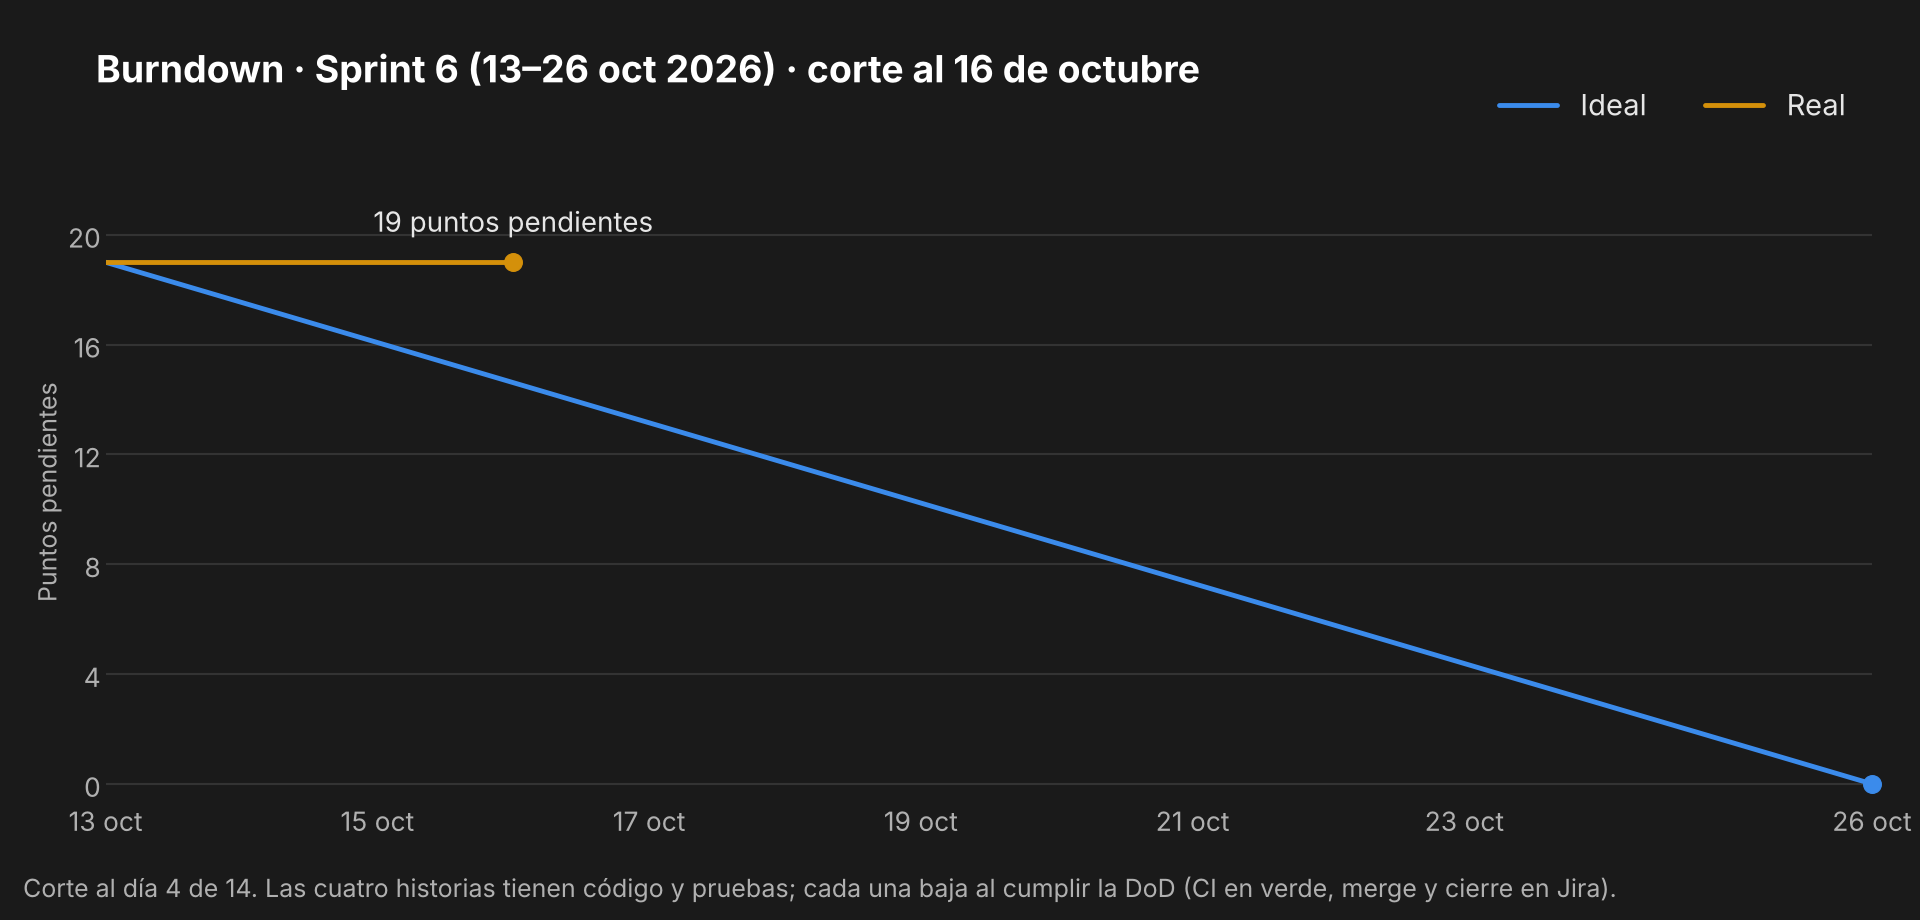
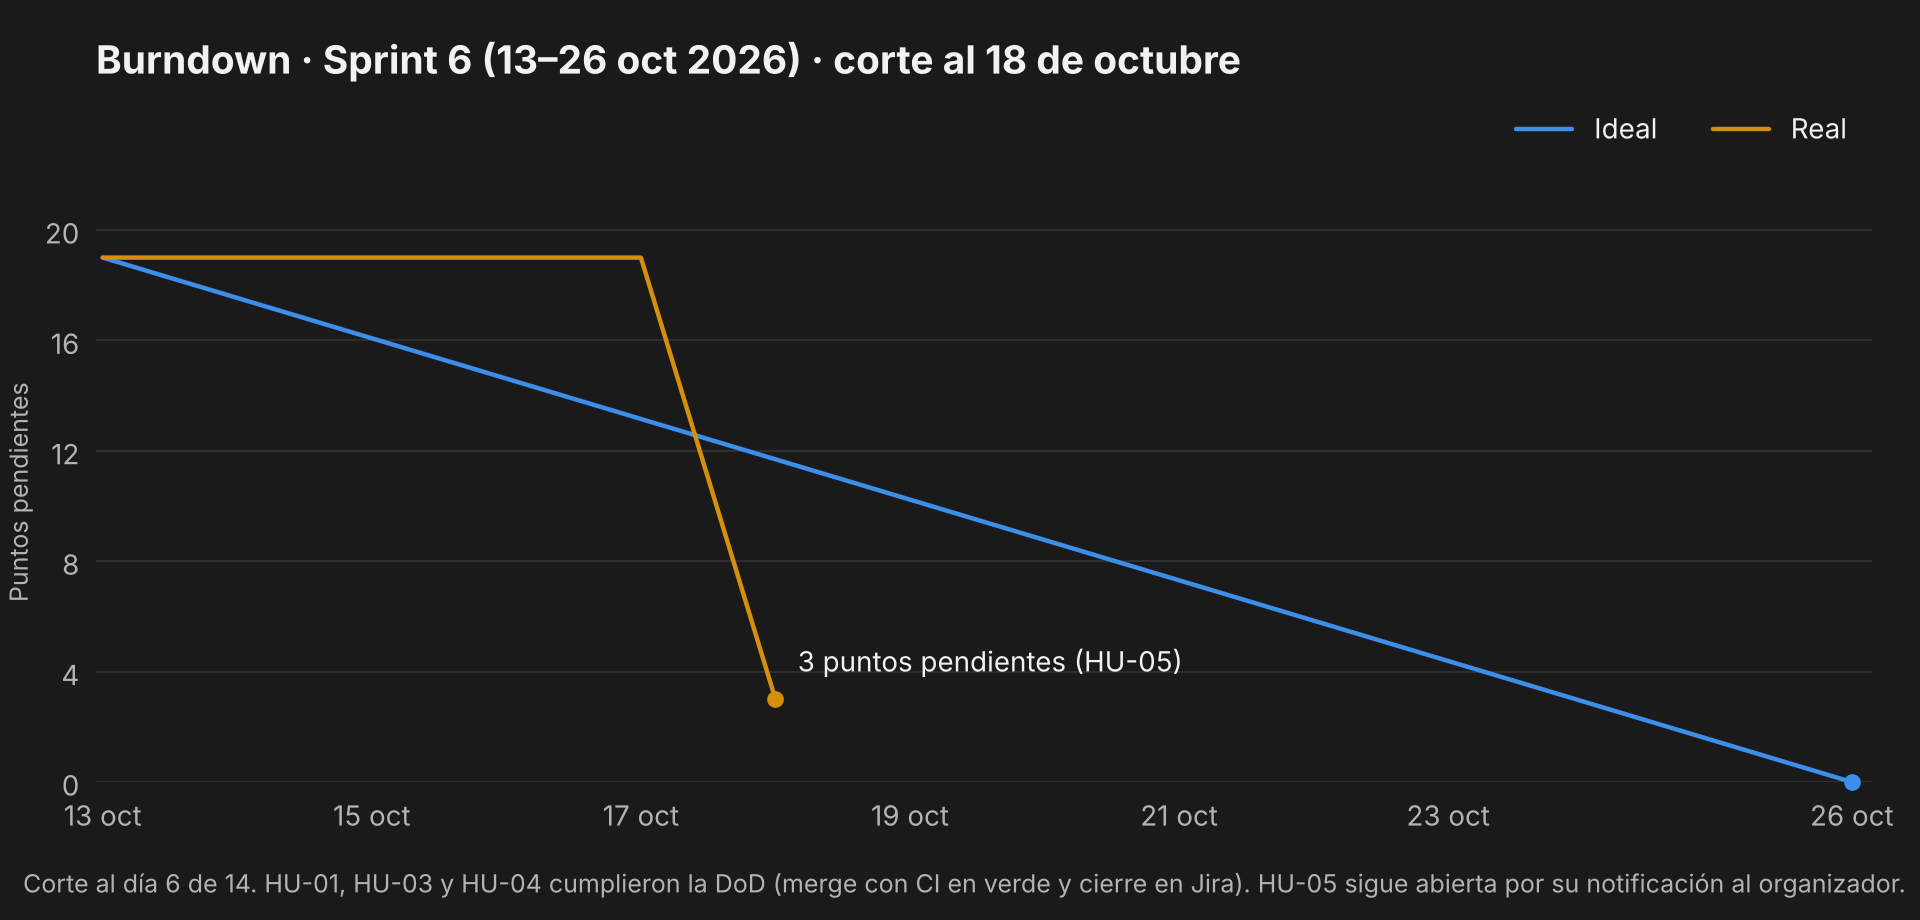
docs(scrum): estado del Sprint 6 al 18 de octubre y burndown (KAN-23)
KAN-7, KAN-9 y KAN-10 en Listo tras el merge del PR #3; HU-05 sigue
abierta por la notificación al organizador.

Claude-Session: https://claude.ai/code/session_01QMjFNznAKG8ee7HLnP4XEw

diff --git a/fase-2-desarrollo/docs/scrum/sprint-06.md b/fase-2-desarrollo/docs/scrum/sprint-06.md
@@ -1,7 +1,7 @@
 # Sprint 6 — Recorrido central: registro, publicación, mapa y postulación
 
 > 13 al 26 de octubre de 2026 · Fase 2 · **Sprint en curso**
-> Corte de este documento: 16 de octubre de 2026 (día 4 de 14).
+> Corte de este documento: 18 de octubre de 2026 (día 6 de 14).
 
 ---
 
@@ -19,12 +19,12 @@ organizador publica un partido al que le falta gente.
 
 ## 2. Sprint Backlog
 
-| Issue | Tipo | Título | Prioridad | Puntos | Estado al 16-oct |
+| Issue | Tipo | Título | Prioridad | Puntos | Estado al 18-oct |
 |---|---|---|---|---|---|
-| [KAN-7](https://lukasguerrerokancha.atlassian.net/browse/KAN-7) | Historia | HU-01 — Registro de agente libre | Must | 3 | Código y pruebas listos · falta merge |
-| [KAN-9](https://lukasguerrerokancha.atlassian.net/browse/KAN-9) | Historia | HU-03 — Publicar partido con cupos incompletos | Must | 5 | Código y pruebas listos · falta merge |
-| [KAN-10](https://lukasguerrerokancha.atlassian.net/browse/KAN-10) | Historia | HU-04 — Buscar partidos cercanos en el mapa | Must | 8 | Código y pruebas listos · falta merge |
-| [KAN-11](https://lukasguerrerokancha.atlassian.net/browse/KAN-11) | Historia | HU-05 — Postularme a un partido | Must | 3 | Código y pruebas listos · falta merge y notificación |
+| [KAN-7](https://lukasguerrerokancha.atlassian.net/browse/KAN-7) | Historia | HU-01 — Registro de agente libre | Must | 3 | Listo · PR #3 a `develop` con CI en verde |
+| [KAN-9](https://lukasguerrerokancha.atlassian.net/browse/KAN-9) | Historia | HU-03 — Publicar partido con cupos incompletos | Must | 5 | Listo · PR #3 a `develop` con CI en verde |
+| [KAN-10](https://lukasguerrerokancha.atlassian.net/browse/KAN-10) | Historia | HU-04 — Buscar partidos cercanos en el mapa | Must | 8 | Listo · PR #3 a `develop` con CI en verde |
+| [KAN-11](https://lukasguerrerokancha.atlassian.net/browse/KAN-11) | Historia | HU-05 — Postularme a un partido | Must | 3 | En curso · código y pruebas en `develop`; falta la notificación al organizador |
 | [KAN-23](https://lukasguerrerokancha.atlassian.net/browse/KAN-23) | Tarea | Documentación de la Fase 2 | — | — | En curso |
 
 Desglose técnico:
@@ -38,15 +38,13 @@ Desglose técnico:
 
 ## 3. Scrumboard
 
-Estado del tablero al 16 de octubre:
+Estado del tablero al 18 de octubre:
 
 | Por hacer | En curso | Listo |
 |---|---|---|
-| — | KAN-7 · HU-01 | — |
-| | KAN-9 · HU-03 | |
-| | KAN-10 · HU-04 | |
-| | KAN-11 · HU-05 | |
-| | KAN-23 · Documentación Fase 2 | |
+| — | KAN-11 · HU-05 | KAN-7 · HU-01 |
+| | KAN-23 · Documentación Fase 2 | KAN-9 · HU-03 |
+| | | KAN-10 · HU-04 |
 
 Una historia pasa a *Listo* cuando cumple la Definición de Terminado (`DESARROLLO.md` §13): CI en
 verde en el Pull Request, merge a `develop` y evidencia en `docs/evidencias/`.
@@ -55,8 +53,9 @@ verde en el Pull Request, merge a `develop` y evidencia en `docs/evidencias/`.
 
 ![Burndown del Sprint 6](img/burndown-sprint-06.png)
 
-Al día 4 la línea real sigue en 19 puntos: el código de las cuatro historias existe y sus pruebas
-pasan, pero ninguna cumple todavía la DoD.
+Al día 6 la línea real bajó de 19 a 3 puntos: HU-01, HU-03 y HU-04 cumplieron la DoD con el merge
+del PR #3 a `develop` (CI en verde en sus tres jobs) y su cierre en Jira. Quedan los 3 puntos de HU-05,
+cuyo criterio de notificar al organizador depende de HU-10.
 
 ## 5. Daily Meeting
 
@@ -64,6 +63,7 @@ pasan, pero ninguna cumple todavía la DoD.
 |---|---|---|---|
 | 13–15 oct | Sin avance en el proyecto | — | Carga laboral de la práctica (IMP-09) |
 | 16 oct | Replanificación en Jira (HU-01, HU-03 y KAN-23 al Sprint 6). Backend de HU-01, HU-03, HU-04 y HU-05 con 90 pruebas (61 unitarias y 29 de integración contra PostGIS). Swagger en `/api/docs`. App: diseño propio sobre `DESIGN.md`, entrada, registro, mapa, detalle, publicación, mis partidos y perfil. 13 pruebas de componentes | Commit por historia, Pull Request a `develop`, CI en verde. Probar la app en el celular con Expo Go | Los sprints de Jira siguen sin iniciarse (IMP-01) |
+| 18 oct | Commit por historia y PR #3 a `develop`: CI en verde y merge. PR #4 de `develop` a `main`. KAN-7, KAN-9 y KAN-10 a *Listo*. Lanzadores de doble clic para Windows (`iniciar-kancha.bat`, `detener-kancha.bat`) y guía para ver y probar la app | Merge a `main`. Ensayar la demo. Decidir cómo se cierra la notificación de HU-05 | La notificación de HU-05 depende de HU-10, planificada para el Sprint 9 |
 
 ## 6. Registro de impedimentos
 

diff --git a/fase-2-desarrollo/docs/scrum/README.md b/fase-2-desarrollo/docs/scrum/README.md
@@ -9,7 +9,7 @@ Retrospective.
 | 3 | 1 – 14 sep 2026 | Diseño: modelo de datos, UML y esqueleto | Diseño entregado · documentación pendiente | [sprint-03.md](sprint-03.md) |
 | 4 | 15 – 28 sep 2026 | HU-01 y HU-03 | 0 de 8 puntos · ambiente y repositorio publicados | [sprint-04.md](sprint-04.md) |
 | 5 | 29 sep – 12 oct 2026 | HU-01 y HU-03 | 0 de 8 puntos · impedimento laboral · historias al Sprint 6 | [sprint-05.md](sprint-05.md) |
-| 6 | 13 – 26 oct 2026 | HU-01, HU-03, HU-04 y HU-05 | En curso | [sprint-06.md](sprint-06.md) |
+| 6 | 13 – 26 oct 2026 | HU-01, HU-03, HU-04 y HU-05 | En curso · 16 de 19 puntos en *Listo* al 18 oct | [sprint-06.md](sprint-06.md) |
 | 7 | 27 oct – 9 nov 2026 | HU-08 y HU-09 | Planificado | — |
 | 8 | 10 – 23 nov 2026 | HU-02, HU-06 y HU-07 | Planificado | — |
 | 9 | 24 nov – 7 dic 2026 | HU-10 | Planificado | — |
